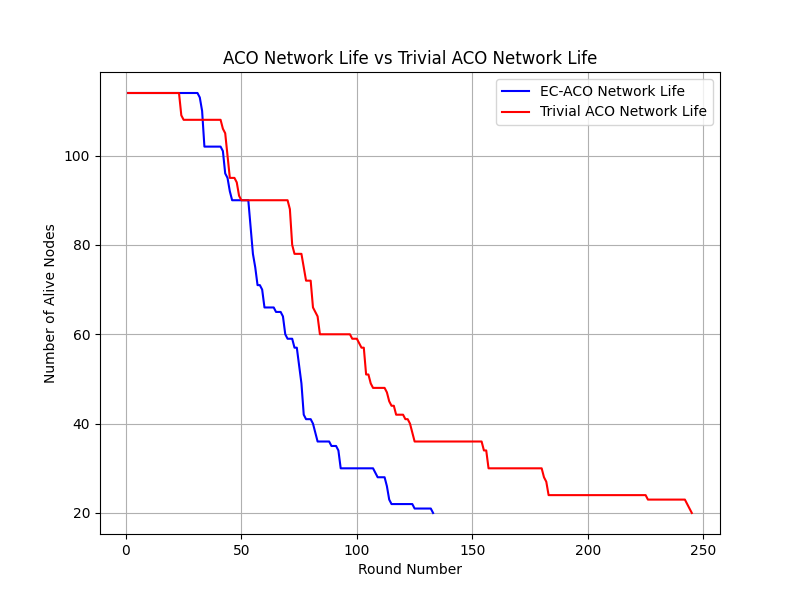
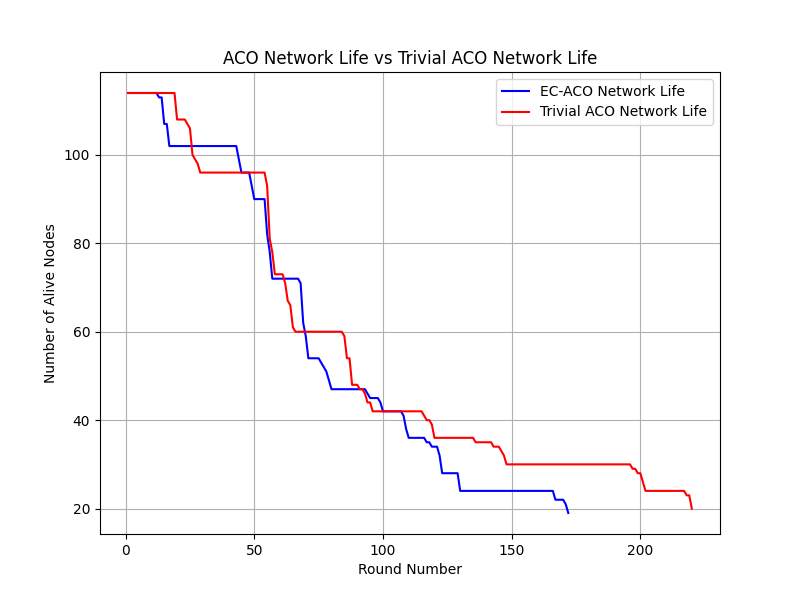
Updated Erasure code number and computation incorporated energy

diff --git a/ACO_all_nodes.py b/ACO_all_nodes.py
@@ -1040,8 +1040,9 @@ def ACO_network_life(nodes, rho, tau_min, tau_max, Elec, epsilon, max_loop):
         loop+=1
         for node in nodes:
             if node.node_id != 1 and node.energy>0:
-                dropped, opti_path = send_data(node.node_id, sink_node.node_id, nodes, 15, 400, Elec, epsilon, rho, tau_min, tau_max)
-                if dropped<=5:
+                node.energy-=10*(10**(-9))
+                dropped, opti_path = send_data(node.node_id, sink_node.node_id, nodes, 12, 400, Elec, epsilon, rho, tau_min, tau_max)
+                if dropped<=2:
                     success+=1
                 # all_sent.append(opti_path)
                 # if (loop %1000 )==1 and loop>1000:
@@ -1168,8 +1169,8 @@ def with_erasure(nodes, rho,tau_min, tau_max, number_of_rounds=500):
             print("Loop: ", loop)
         for node in nodes:
             if node.node_id != 1:
-                dropped, opti_path = send_data(node.node_id, 1, nodes, 15, 400, Elec, epsilon, rho, tau_min, tau_max)
-                if(dropped<=5):
+                dropped, opti_path = send_data(node.node_id, 1, nodes, 120, 40, Elec, epsilon, rho, tau_min, tau_max)
+                if(dropped<=20):
                     success+=1
         
         if((loop % 200 )==1):
@@ -1193,7 +1194,7 @@ def wo_erasure_code(nodes, rho,tau_min, tau_max, number_of_rounds=500):
             print("Loop: ", loop)
         for node in nodes:
             if node.node_id != 1:
-                dropped, opti_path = send_data(node.node_id, 1, nodes, 10, 400, Elec, epsilon, rho, tau_min, tau_max)
+                dropped, opti_path = send_data(node.node_id, 1, nodes, 100, 40, Elec, epsilon, rho, tau_min, tau_max)
                 if(dropped==0):
                     success+=1
         if((loop % 200 )==1):
@@ -1285,7 +1286,7 @@ plot_graph_static(nodes, path)
 
     
 # packet_loss_ratio(nodes, rho, tau_min, tau_max, 0, 0.2)
-alive_nodes = FDN(nodes, rho, tau_min, tau_max, Elec, epsilon, 0, 0.2)
+alive_nodes = FDN(nodes, rho, tau_min, tau_max, Elec, epsilon, 0, 0.1)
 # alive_nodes = F_Disconnected_N(nodes, rho, tau_min, tau_max, Elec, epsilon)
 # plot_graph(all_nodes,[], show_neighbors=False, interval=1)
 # plot_alive_nodes(alive_nodes)
